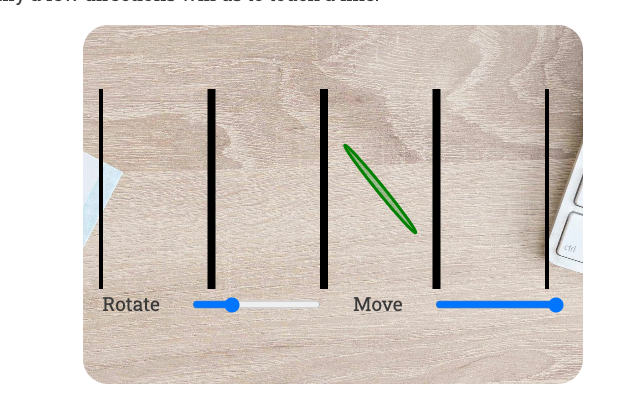
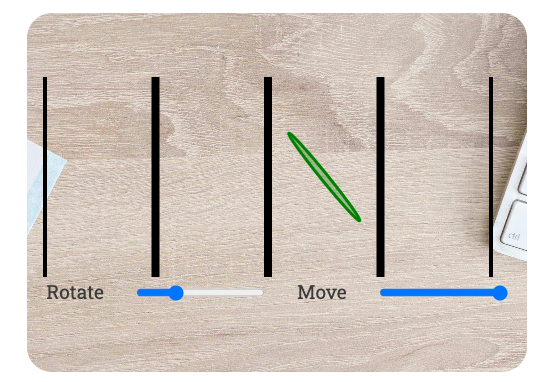
add more unsolved bugs

diff --git a/README.md b/README.md
@@ -297,6 +297,15 @@ Going through manual testing of the application, I encountered a few bugs that i
         <td>Right now I don't have the time to address this problem properly. I increased the maximum value of the slider so that at least most of the canvas is used - this should probably be handled better but I leave this up for a future release</td>
         <td> <img src="./assets/testing/unsolved-issues/bug1-maximum-size-not-used.png"; alt="image of bug"></td>
     </tr>
+
+  <tr>
+        <td>1</td>
+        <td>The sticks can flow out of the displayed canvas </td>
+        <td>This has something to do how `d3.js` draws elements onto an svg. Eventually this should be handled better by setting appropriate margins and the use of `d3-translate` but this seemed not a trivial operation, outside the scope of the project. </td>
+        <td> <img src="./assets/testing/unsolved-issues/bug2-min-position-outside-canvas.png"; alt="image of bug"></td>
+    </tr>
+
+    
 </table>
 
 ---- 
